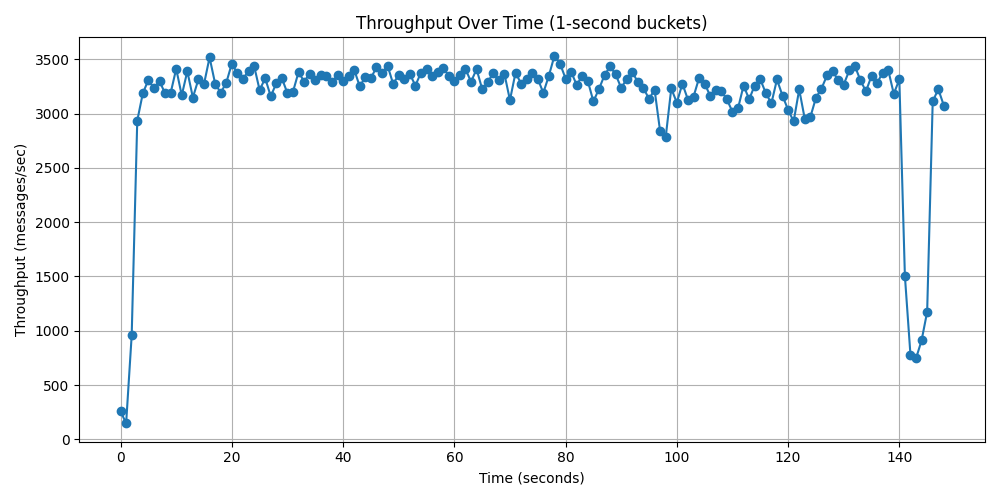
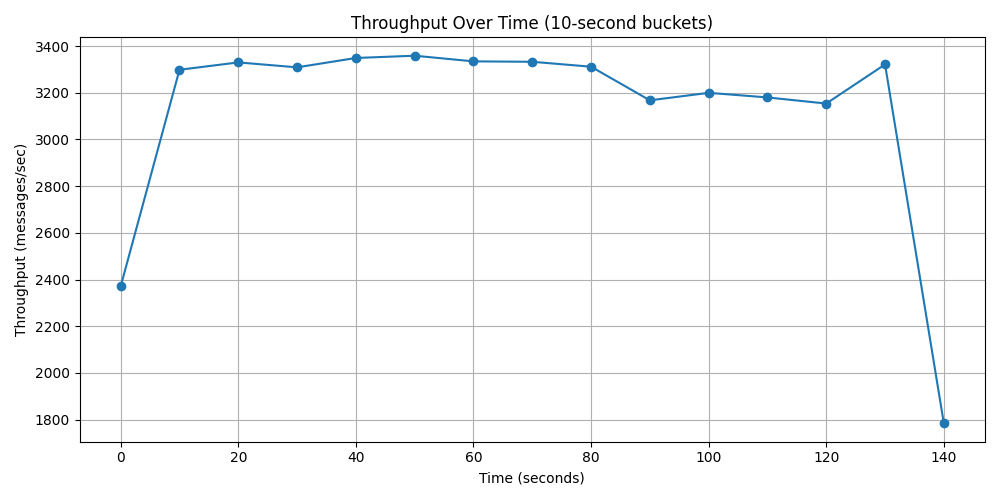
fix: update chart

diff --git a/client-part2/plot.py b/client-part2/plot.py
@@ -8,20 +8,20 @@ with open('results.csv', 'r') as f:
         records.append(float(row['relative_start_ms']))
 
 min_time = min(records)
-bucket_size = 1000
+bucket_size = 10000
 buckets = {}
 for t in records:
-    bucket = int((t - min_time) // bucket_size) * 1
+    bucket = int((t - min_time) // bucket_size) * 10
     buckets[bucket] = buckets.get(bucket, 0) + 1
 
 x = sorted(buckets.keys())
-y = [buckets[b] / 1.0 for b in x]
+y = [buckets[b] / 10.0 for b in x]
 
 plt.figure(figsize=(10, 5))
 plt.plot(x, y, marker='o')
 plt.xlabel('Time (seconds)')
 plt.ylabel('Throughput (messages/sec)')
-plt.title('Throughput Over Time (1-second buckets)')
+plt.title('Throughput Over Time (10-second buckets)')
 plt.grid(True)
 plt.tight_layout()
 plt.savefig('throughput.png')
